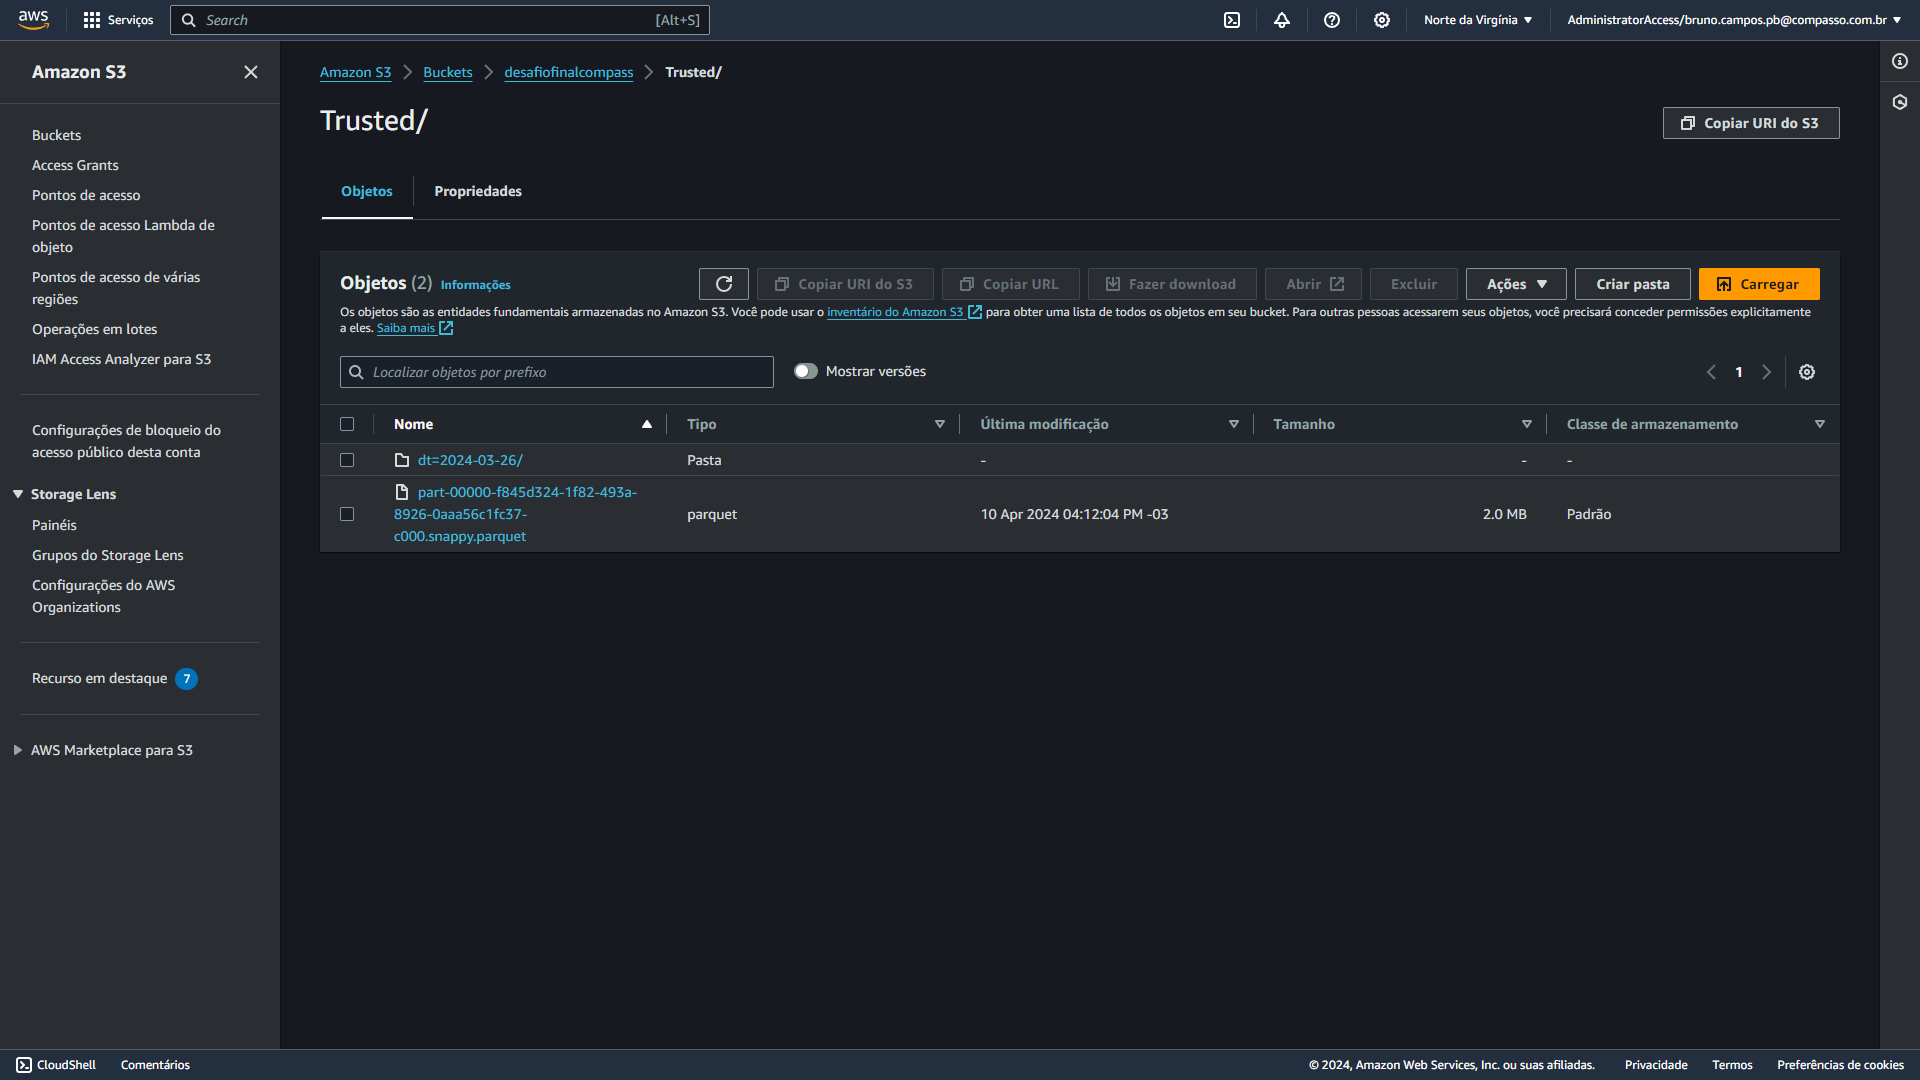
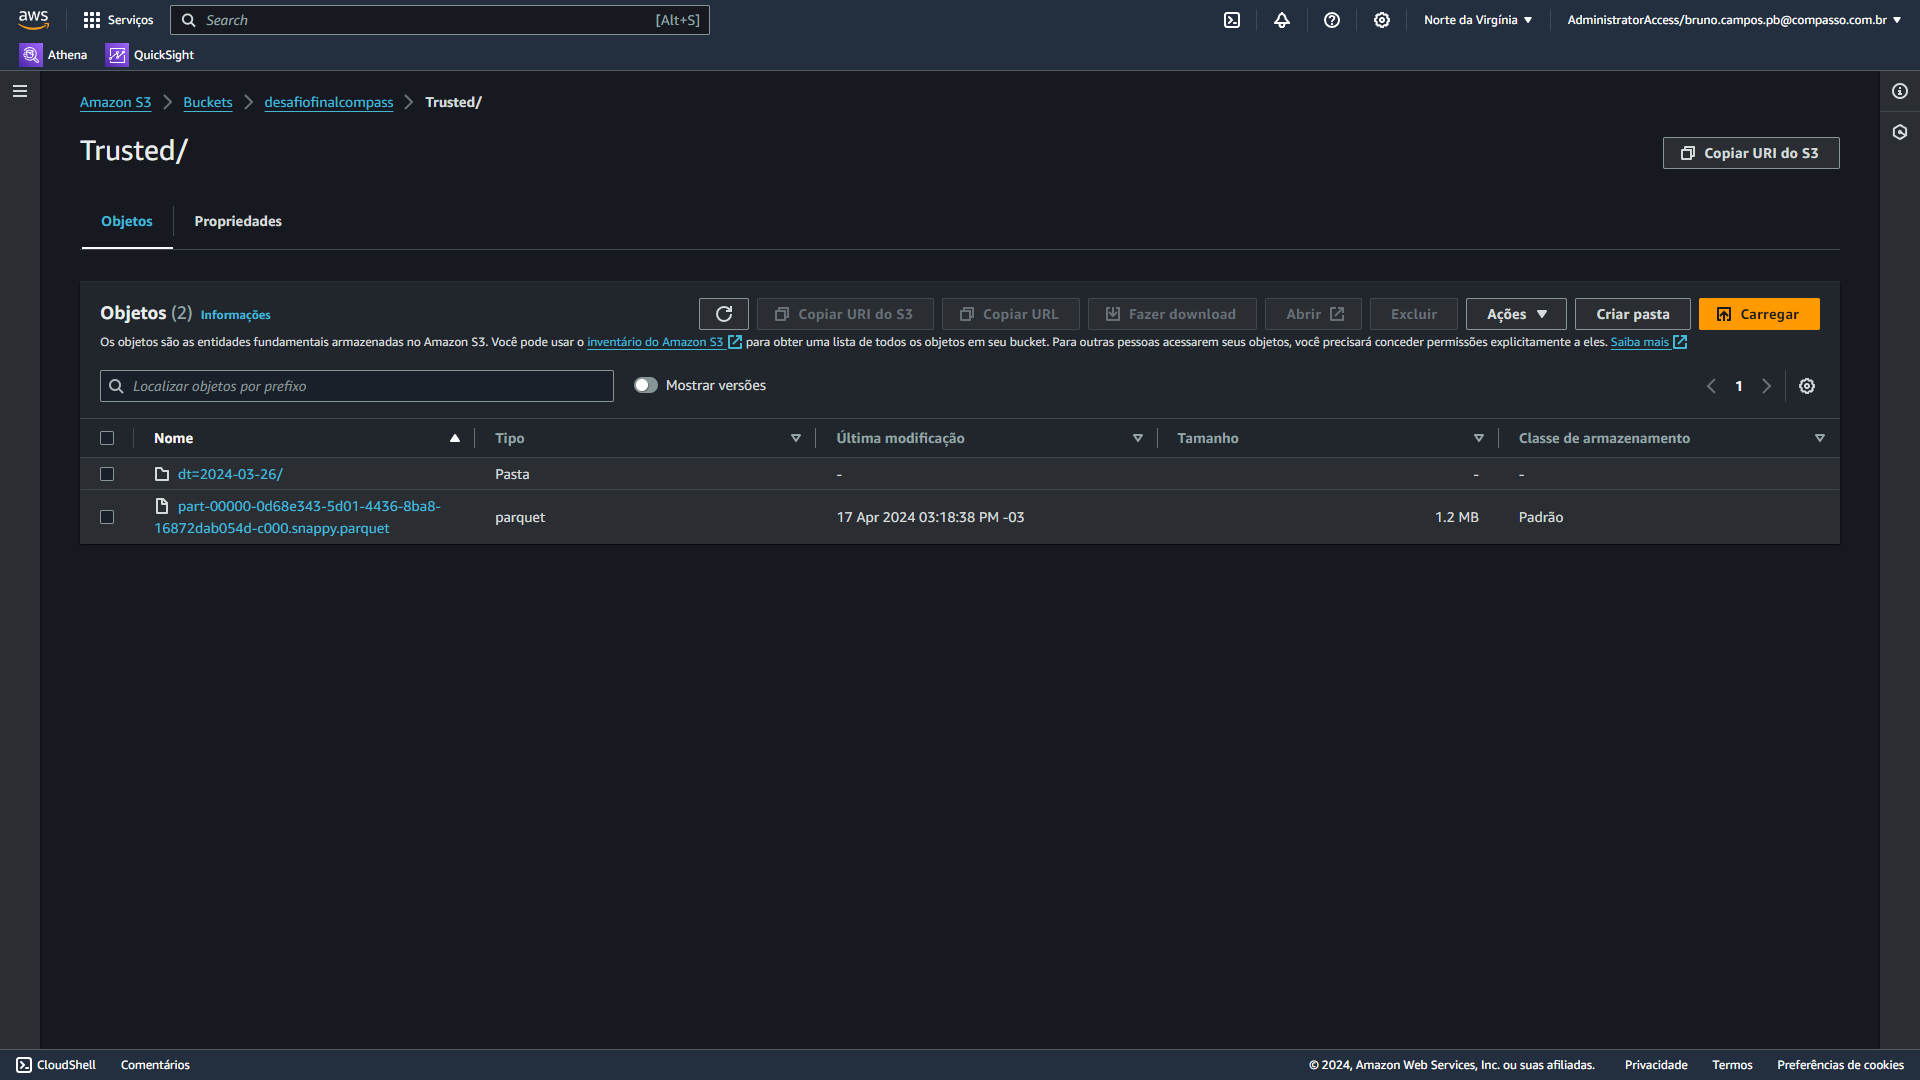
update readme after changing Spark scripts and tables from s3

diff --git a/Desafio/etapa-3/parquet_refined.py b/Desafio/etapa-3/parquet_refined.py
@@ -41,26 +41,15 @@ dim_idioma_original = dim_idioma_original.select(
 dim_idioma_original.write.format('parquet').save(
     f'{target_path}/dim_idioma_original')
 
-# DataFrame correspondente à dimensão idioma falado
-dim_idioma_falado = merged_df.select(explode('spoken_languages').alias('dict')).select(col(
-    'dict.english_name').alias('idioma'), col('dict.iso_639_1').alias('abreviacao')).dropDuplicates()
-dim_idioma_falado = dim_idioma_falado.withColumn(
-    'cod_idioma_falado', lit(monotonically_increasing_id()))
-dim_idioma_falado = dim_idioma_falado.select(
-    'cod_idioma_falado', 'idioma', 'abreviacao')
-dim_idioma_falado.write.format('parquet').save(
-    f'{target_path}/dim_idioma_falado')
-
 # DataFrame correspondente à dimensão tempo
-dim_tempo = merged_df.select('release_date', col(
-    'anoLancamento').alias('ano_lancamento'))
-dim_tempo = dim_tempo.withColumn('ano_lancamento', coalesce(
-    year(dim_tempo['release_date']), col('ano_lancamento')))
+dim_tempo = merged_df.select(col('release_date').alias('data_lancamento'))
 dim_tempo = dim_tempo.withColumn(
-    'mes_lancamento', month(dim_tempo['release_date']))
+    'ano_lancamento', year(dim_tempo['data_lancamento']))
 dim_tempo = dim_tempo.withColumn(
-    'dia_lancamento', dayofmonth(dim_tempo['release_date']))
-dim_tempo = dim_tempo.select(col('release_date').alias(
+    'mes_lancamento', month(dim_tempo['data_lancamento']))
+dim_tempo = dim_tempo.withColumn(
+    'dia_lancamento', dayofmonth(dim_tempo['data_lancamento']))
+dim_tempo = dim_tempo.select(to_date(col('data_lancamento'), 'yyyy-MM-dd').alias(
     'data_lancamento'), 'ano_lancamento', 'mes_lancamento', 'dia_lancamento')
 dim_tempo.write.format('parquet').save(f'{target_path}/dim_tempo')
 
@@ -79,34 +68,13 @@ dim_genero = merged_df.select(explode('genres').alias('dict')).select(col('dict.
     'cod_genero'), col('dict.name').alias('genero')).dropDuplicates().sort(col('cod_genero'))
 dim_genero.write.format('parquet').save(f'{target_path}/dim_genero')
 
-# DataFrame correspondente à dimensão produtora
-dim_produtora = merged_df.select(explode('production_companies').alias('dict')).select(col('dict.id').alias('cod_produtora'), col(
-    'dict.name').alias('nome'), col('dict.origin_country').alias('pais')).dropDuplicates().sort(col('cod_produtora'))
-dim_produtora.write.format('parquet').save(f'{target_path}/dim_produtora')
-
 # DataFrame correspondente à tabela fato filme
-fato_filme = merged_df.select('id', coalesce(col('tituloOriginal'), col('original_title')).alias('titulo_original'), coalesce(col('tituloPincipal'), col('title')).alias('titulo_principal'),
-                              coalesce(col('tempoMinutos'), col('runtime')).alias('duracao_minutos'), col('release_date').alias('data_lancamento'), col(
-                                  'anoLancamento').alias('ano_lancamento'), coalesce(col('notaMedia'), col('vote_average')).alias('nota_media'),
+fato_filme = merged_df.select('id', coalesce(col('tituloPincipal'), col('title')).alias('titulo_principal'),
+                              coalesce(col('tempoMinutos'), col('runtime')).alias('duracao_minutos'), col('release_date').alias(
+                                  'data_lancamento'), coalesce(col('notaMedia'), col('vote_average')).alias('nota_media'),
                               coalesce(col('numeroVotos'), col('vote_count')).alias('numero_votos'), col(
                                   'budget').alias('orcamento'), coalesce(col('imdb_id'), col('id')).alias('id_imdb'),
-                              col('overview').alias('visao_geral'), col('popularity').alias('popularidade'), col('revenue').alias('receita'), col('tagline').alias('slogan'))
-
-# Adiciona os ids da dim_produtora à tabela fato_filme
-produtora_df = merged_df.select(col('id').alias('temp_id'), explode(
-    'production_companies.id').alias('produtora'))
-produtora_df = produtora_df.join(
-    dim_produtora, produtora_df.produtora == dim_produtora.cod_produtora)
-fato_filme = fato_filme.join(produtora_df, fato_filme.id == produtora_df.temp_id, 'left_outer').drop(
-    'temp_id', 'produtora', 'pais', 'nome')
-
-# Adiciona os ids da dim_idioma_falado à tabela fato_filme
-idioma_falado_df = merged_df.select(col('id').alias(
-    'temp_id'), explode('spoken_languages').alias('idioma_falado'))
-idioma_falado_df = idioma_falado_df.join(
-    dim_idioma_falado, idioma_falado_df.idioma_falado.english_name == dim_idioma_falado.idioma)
-fato_filme = fato_filme.join(idioma_falado_df, fato_filme.id == idioma_falado_df.temp_id, 'left_outer').drop(
-    'temp_id', 'idioma', 'abreviacao', 'idioma_falado')
+                              col('popularity').alias('popularidade'), col('revenue').alias('receita'))
 
 # Adiciona os ids da dim_paises_produtores à tabela fato_filme
 paises_produtores_df = merged_df.select(col('id').alias(
@@ -146,8 +114,6 @@ fato_filme = fato_filme.select('*', coalesce(col('cod_genero1'), col(
 
 fato_filme = fato_filme.withColumn(
     'duracao_minutos', col('duracao_minutos').cast('integer'))
-fato_filme = fato_filme.withColumn(
-    'ano_lancamento', col('ano_lancamento').cast('integer'))
 fato_filme = fato_filme.withColumn(
     'data_lancamento', to_date(col('data_lancamento'), 'yyyy-MM-dd'))
 fato_filme = fato_filme.withColumn(

diff --git a/Desafio/etapa-3/json_parquet.py b/Desafio/etapa-3/json_parquet.py
@@ -26,8 +26,8 @@ data = source_file[len(source_file) -
 
 df_with_date = tmdb.withColumn("dt", lit(data))
 
-df_transformed = df_with_date.drop("adult", "belongs_to_collection", "backdrop_path",
-                                   "homepage", "poster_path", "status_code", "status_message", "success", "status", "video")
+df_transformed = df_with_date.drop("adult", "belongs_to_collection", "backdrop_path", "homepage", "poster_path", "status_code",
+                                   "status_message", "success", "status", "video", "overview", "production_companies", "spoken_languages", "tagline", "original_title")
 
 df_transformed = df_transformed.dropDuplicates()
 

diff --git a/Desafio/etapa-3/csv_parquet.py b/Desafio/etapa-3/csv_parquet.py
@@ -21,8 +21,8 @@ target_path = args['S3_TARGET_PATH']
 
 df_csv = spark.read.csv(source_file, header=True, sep='|')
 
-df_csv_filtrado = df_csv.drop("generoArtista", "nomeArtista", "anoNascimento",
-                              "anoFalecimento", "profissao", "titulosMaisConhecidos", "personagem")
+df_csv_filtrado = df_csv.drop("generoArtista", "nomeArtista", "anoNascimento", "anoFalecimento",
+                              "profissao", "titulosMaisConhecidos", "personagem", "tituloOriginal", "anoLancamento")
 
 df_csv_filtrado = df_csv_filtrado.filter(
     (col('genero') == 'Drama') | (col('genero') == 'Romance')).dropDuplicates()
